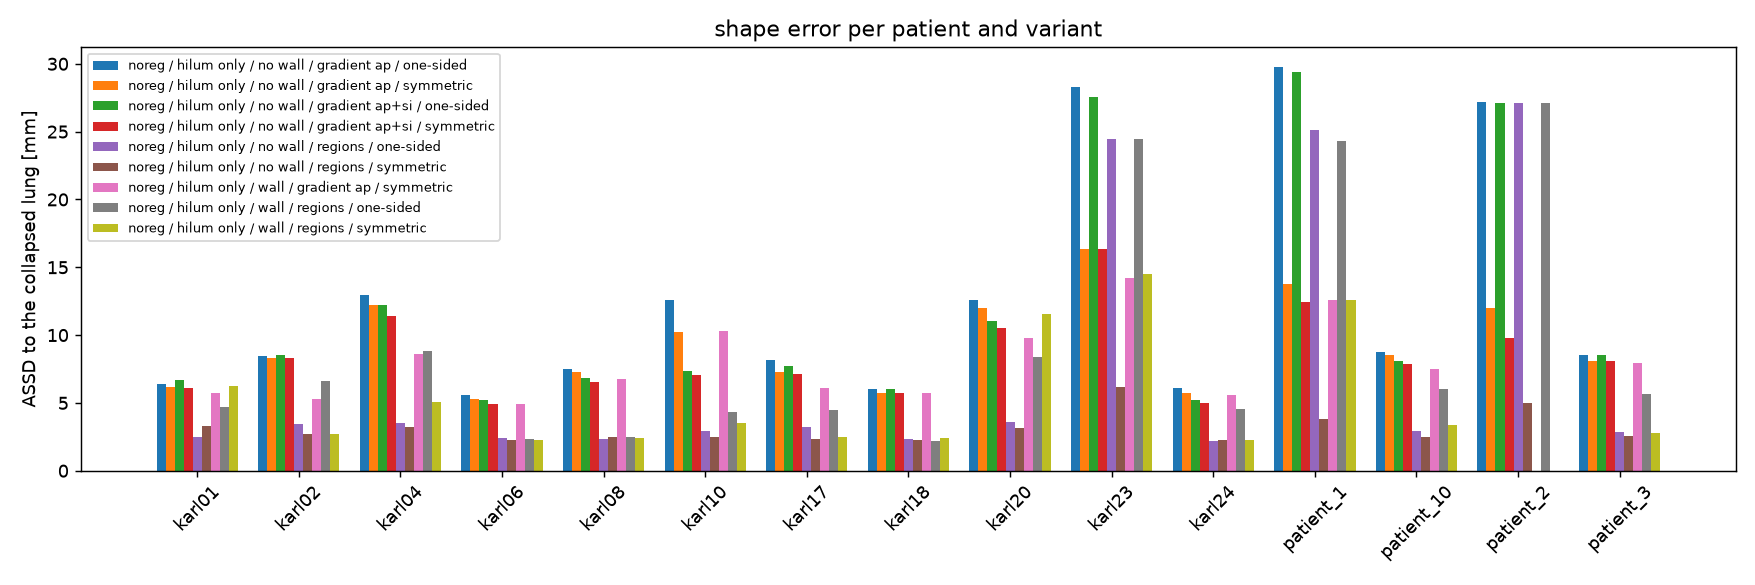
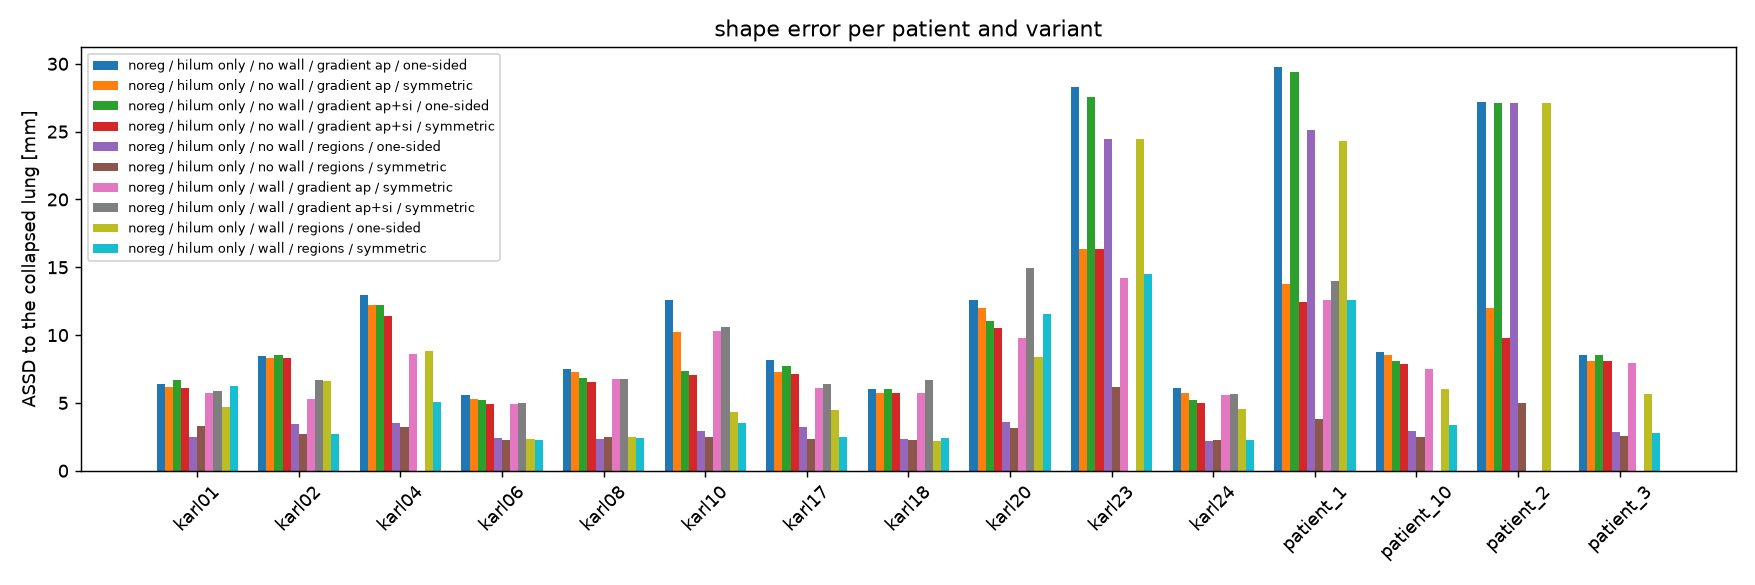
bug fixed on pressure fit

Changed region(s): [[0.0923, 0.1846, 0.9538, 0.8308], [0.0308, 0.3385, 0.2769, 0.4615]]

diff --git a/pipeline/collapse/fit.py b/pipeline/collapse/fit.py
@@ -321,7 +321,7 @@ def run_level(L, model, x0, lb, ub, ctx):
                           q=np.array(qs, float))
         else:
             anchor["current"] = anchor["state"] is None         # the solver now holds this trial
-        trk.improve(err, r, state)
+        trk.improve(rms if cfg.best_by == "rms" else err, r, state)
         return last["r"], err + np.dot(rreg, rreg) / max(1, len(rreg))
 
     # regularisation rows of the Jacobian: d(reg (q_a - q_b))/dx, constant
@@ -400,7 +400,7 @@ def run(cfg):
         log.warning("loss_symmetric_weight %g ignored: the reference is registered (node-to-node "
                     "correspondence, already symmetric)", cfg.loss_symmetric_weight)
     r_zero = loss.residual(X_ref)
-    e0, _ = loss.error(r_zero)
+    e0, rms0 = loss.error(r_zero)
     mism = np.linalg.norm(X_ref - X_tgt, axis=1)[~free]
     log.info("problem: %d surface points (%d clamped, left out of the error: %.2f mm mean / %.2f max from "
              "their target), %d volume nodes, %d tets, levels K = %s; loss %s%s%s%s, no-deformation error "
@@ -446,20 +446,32 @@ def run(cfg):
         models = [PressureModel.gradient(coords, [], clamped, offset)]
         if axes:
             models.append(PressureModel.gradient(coords, axes, clamped, offset))
+        if offset is not None:
+            # continuation: a solve from rest with the whole gravity term pushes the lung onto the wall
+            # from the first increment and often fails (2026-11-16 scan: 27 / 42 first solves). Fit the
+            # uniform level without, then with half the gravity term first; these levels only provide
+            # the warm start and their states are not candidates for the result
+            pre = [PressureModel.gradient(coords, [], clamped, f * offset) for f in cfg.gravity_prefit]
+            for m in pre:
+                m.prefit = True
+            models = pre + models
     slope_max = cfg.q_bounds[1] - cfg.q_bounds[0]
 
     trk = Tracker(cfg, out)
     ctx = dict(solver=solver, trk=trk, cfg=cfg, sign=sign, X_ref=X_ref, loss=loss, clamped=clamped,
                r_zero=r_zero.ravel())
     q_tri, nu_best = np.where(clamped, np.nan, cfg.q0), cfg.nu
-    summary, stall, prev = [], 0, e0
+    base0 = rms0 if cfg.best_by == "rms" else e0          # in the measure that picks the best
+    summary, stall, prev = [], 0, base0
     stop_reason = "levels exhausted"
     with guarded(trk, int(60 * (cfg.time_budget_min + cfg.hard_grace_min))):
+        warm = None                                     # best of the last prefit level
         for L, model in enumerate(models, start=1):
             K = model.P
-            if trk.best is not None:                       # warm start from the best so far
-                q_tri, nu_best = trk.best["q_tri"], trk.best["nu"]
-                solver.set_state(trk.best["solver_state"], ctx["sign"] * trk.best["q_tri"])
+            src = trk.best if trk.best is not None else warm
+            if src is not None:                             # warm start from the best so far
+                q_tri, nu_best = src["q_tri"], src["nu"]
+                solver.set_state(src["solver_state"], ctx["sign"] * src["q_tri"])
             x0 = model.x0_from(q_tri, area, clamped)
             lb, ub = np.full(K, cfg.q_bounds[0]), np.full(K, cfg.q_bounds[1])
             if model.name == "gradient":                   # slopes: p/E difference across the lung
@@ -473,6 +485,15 @@ def run(cfg):
                                 evals=trk.level_evals, elapsed_min=trk.elapsed() / 60))
             log.info("level %d done (%s): level best %.3f mm, overall best %.3f mm, improvement %.1f%%",
                      L, reason, lvl_err, trk.best_err, 100 * imp)
+            if getattr(model, "prefit", False):
+                summary[-1]["prefit"] = True
+                if reason == "time budget" or reason.startswith("signal"):
+                    stop_reason = reason
+                    break
+                if trk.best is not None:                    # warm start only, not a result
+                    warm = trk.best
+                trk.best, trk.best_err, prev = None, np.inf, base0
+                continue
             trk.checkpoint()
             if reason in ("target error reached", "time budget") or reason.startswith("signal"):
                 stop_reason = reason

diff --git a/pipeline/config.py b/pipeline/config.py
@@ -172,6 +172,12 @@ class FemFitConfig:
     # E_Pa is set to gravity_E_Pa, so the reported pressures are in physical Pa. None = slope fitted
     gravity_E_Pa: float | None = None
     tissue_density: float = 250.0      # kg/m3, mean density of the inflated lung (assumed: no CT HU)
+    gravity_prefit: list = field(default_factory=lambda: [0.0, 0.5])  # continuation: fractions of the
+                                       # gravity term fitted first (uniform level), only as warm start
+    # which state is the result (and drives level plateau / target stop): "mean" = lowest mean distance;
+    # "rms" = lowest rms, i.e. the least-squares cost the optimiser minimises (without the reg term).
+    # With 1-2 parameters the two can disagree and "mean" may keep the starting point
+    best_by: str = "mean"
     optimizer: str = "lsq"            # lsq (bounded least squares, TRF) | nm (Nelder-Mead)
     jacobian: str = "analytic"         # lsq: analytic (from the core; finite differences if it has none) | 2-point
     lsq_diff_step: float = 5e-3        # lsq: relative finite-difference step for the Jacobian
@@ -224,6 +230,10 @@ class FemFitConfig:
         bad = [a for a in self.gradient_axes if a not in ("ap", "si", "ml")]
         if bad or len(set(self.gradient_axes)) != len(self.gradient_axes):
             raise ValueError("fem_fit.gradient_axes: distinct values among ap, si, ml (got %s)" % self.gradient_axes)
+        if self.best_by not in ("mean", "rms"):
+            raise ValueError("fem_fit.best_by must be mean or rms")
+        if any(not 0.0 <= f < 1.0 for f in self.gravity_prefit):
+            raise ValueError("fem_fit.gravity_prefit: fractions in [0, 1)")
         if self.gravity_E_Pa is not None:
             if self.pressure_model != "gradient":
                 raise ValueError("fem_fit.gravity_E_Pa needs pressure_model gradient")

diff --git a/analysis/report.md b/analysis/report.md
@@ -1,6 +1,6 @@
 # Fit analysis
 
-193 fits, 15 patients. Shape errors measured by this script against the collapsed lung surface, free points only (see the docstring).
+208 fits, 15 patients. Shape errors measured by this script against the collapsed lung surface, free points only (see the docstring).
 
 
 ## Per fit
@@ -16,6 +16,8 @@
 | karl01_noreg_hilum | fit_sym_k0.001 | left | 40 | 25% | 26% | 2.30 | 2.68 | 1.92 | 8.45 | 3.3 | 0.38 | 0.21 | -0.17 | -0.01 | 0.08 | 0 | 7.7 | target error reached |
 | karl01_noreg_hilum | fit_sym_k0.003 | left | 25 | 25% | 27% | 3.30 | 4.07 | 2.54 | 13.17 | 2.8 | 0.44 | 0.31 | -0.18 | -0.14 | 0.23 | 16 | 32.7 | fit plateau (2 levels < 2% gain) |
 | karl01_noreg_hilum_wall | fit_grad_ap_sym | left | 2 | 25% | 28% | 5.76 | 6.96 | 4.56 | 18.88 | 13.3 | 0.48 | 0.26 | -0.00 | -0.00 | 1.00 | 0 | 0.5 | levels exhausted |
+| karl01_noreg_hilum_wall | fit_gE1700 | left | 1 | 25% | 28% | 5.76 | 6.98 | 4.55 | 19.40 | 13.0 | 0.48 | 0.25 | 0.00 | -0.00 | 1.00 | 0 | 0.4 | levels exhausted |
+| karl01_noreg_hilum_wall | fit_gE3000 | left | 1 | 25% | 28% | 5.85 | 7.19 | 4.51 | 23.52 | 9.6 | 0.49 | 0.14 | 0.00 | -0.00 | 1.00 | 0 | 0.2 | levels exhausted |
 | karl01_noreg_hilum_wall | fit_torch | left | 8 | 25% | 32% | 4.72 | 5.50 | 3.94 | 14.21 | 10.5 | 0.54 | 0.13 | -0.14 | -0.05 | 0.39 | 15 | 30.8 | fit plateau (2 levels < 2% gain) |
 | karl01_noreg_hilum_wall | fit_sym | left | 8 | 25% | 24% | 3.55 | 4.37 | 2.73 | 12.81 | 6.9 | 0.40 | 0.18 | -0.20 | -0.16 | 0.23 | 14 | 41.1 | fit plateau (2 levels < 2% gain) |
 | karl01_noreg_hilum_wall | fit_sym_k0.001 | left | 8 | 25% | 27% | 3.70 | 4.58 | 2.82 | 13.72 | 5.0 | 0.45 | 0.34 | -0.22 | -0.16 | 0.29 | 12 | 27.8 | fit plateau (2 levels < 2% gain) |
@@ -29,6 +31,7 @@
 | karl02_noreg_hilum | fit_sym_k0.001 | right | 40 | 53% | 52% | 2.90 | 2.59 | 3.21 | 7.85 | 8.2 | 0.95 | 0.49 | -0.13 | -0.23 | 0.24 | 0 | 9.9 | levels exhausted |
 | karl02_noreg_hilum | fit_sym_k0.003 | right | 40 | 53% | 52% | 2.72 | 2.48 | 2.96 | 6.93 | 5.7 | 1.01 | 0.75 | -0.21 | -0.34 | 0.22 | 0 | 7.9 | levels exhausted |
 | karl02_noreg_hilum_wall | fit_grad_ap_sym | right | 2 | 53% | 49% | 5.30 | 5.15 | 5.45 | 13.92 | 15.0 | 0.83 | 0.32 | -0.00 | -0.00 | 1.00 | 4 | 8.4 | levels exhausted |
+| karl02_noreg_hilum_wall | fit_gE3000 | right | 1 | 53% | 46% | 6.66 | 6.90 | 6.41 | 19.53 | 12.8 | 0.78 | 0.18 | -0.00 | -0.00 | 1.00 | 0 | 0.6 | levels exhausted |
 | karl02_noreg_hilum_wall | fit_torch | right | 4 | 53% | 51% | 6.65 | 6.42 | 6.88 | 15.79 | 12.8 | 0.84 | 0.35 | 0.02 | 0.14 | 0.70 | 12 | 24.0 | fit plateau (2 levels < 2% gain) |
 | karl02_noreg_hilum_wall | fit_sym | right | 4 | 53% | 49% | 6.57 | 6.55 | 6.59 | 15.98 | 11.7 | 0.79 | 0.31 | 0.02 | 0.12 | 0.75 | 12 | 26.1 | fit plateau (2 levels < 2% gain) |
 | karl02_noreg_hilum_wall | fit_sym_k0.001 | right | 4 | 53% | 49% | 6.49 | 6.70 | 6.28 | 17.70 | 5.6 | 0.81 | 0.54 | -0.11 | 0.22 | 0.73 | 11 | 22.2 | fit plateau (2 levels < 2% gain) |
@@ -59,6 +62,7 @@
 | karl06_noreg_hilum | fit_sym_k0.001 | right | 14 | 23% | 24% | 2.37 | 2.58 | 2.16 | 8.62 | 6.8 | 0.40 | 0.29 | -0.07 | -0.15 | 0.40 | 0 | 4.2 | target error reached |
 | karl06_noreg_hilum | fit_sym_k0.003 | right | 14 | 23% | 24% | 2.30 | 2.52 | 2.08 | 8.90 | 4.3 | 0.43 | 0.47 | -0.14 | -0.23 | 0.45 | 0 | 3.5 | target error reached |
 | karl06_noreg_hilum_wall | fit_grad_ap_sym | right | 2 | 23% | 21% | 4.95 | 5.61 | 4.28 | 16.28 | 10.1 | 0.35 | 0.21 | -0.00 | -0.00 | 1.00 | 0 | 0.5 | levels exhausted |
+| karl06_noreg_hilum_wall | fit_gE3000 | right | 1 | 23% | 22% | 4.96 | 5.62 | 4.30 | 16.33 | 9.8 | 0.36 | 0.19 | 0.00 | -0.00 | 1.00 | 0 | 0.4 | levels exhausted |
 | karl06_noreg_hilum_wall | fit_torch | right | 25 | 23% | 26% | 2.34 | 2.34 | 2.33 | 6.88 | 11.0 | 0.42 | 0.16 | -0.10 | -0.14 | 0.13 | 0 | 0.5 | target error reached |
 | karl06_noreg_hilum_wall | fit_sym | right | 25 | 23% | 23% | 2.33 | 2.51 | 2.15 | 6.85 | 10.9 | 0.38 | 0.16 | -0.10 | -0.14 | 0.16 | 0 | 3.5 | target error reached |
 | karl06_noreg_hilum_wall | fit_sym_k0.001 | right | 14 | 23% | 23% | 2.36 | 2.57 | 2.15 | 8.04 | 6.9 | 0.40 | 0.29 | -0.07 | -0.15 | 0.37 | 0 | 0.4 | target error reached |
@@ -72,6 +76,8 @@
 | karl08_noreg_hilum | fit_sym_k0.001 | right | 40 | 28% | 28% | 2.17 | 2.25 | 2.09 | 6.88 | 5.2 | 0.52 | 0.37 | -0.23 | -0.07 | 0.18 | 0 | 6.4 | target error reached |
 | karl08_noreg_hilum | fit_sym_k0.003 | right | 25 | 28% | 28% | 2.45 | 2.58 | 2.33 | 7.93 | 3.3 | 0.55 | 0.55 | -0.37 | -0.03 | 0.28 | 0 | 5.3 | target error reached |
 | karl08_noreg_hilum_wall | fit_grad_ap_sym | right | 2 | 28% | 25% | 6.76 | 7.54 | 5.98 | 20.02 | 10.6 | 0.44 | 0.18 | 0.00 | -0.00 | 1.00 | 0 | 0.4 | levels exhausted |
+| karl08_noreg_hilum_wall | fit_gE1700 | right | 1 | 28% | 26% | 6.79 | 7.38 | 6.19 | 19.06 | 13.3 | 0.44 | 0.32 | 0.00 | -0.00 | 1.00 | 0 | 0.7 | levels exhausted |
+| karl08_noreg_hilum_wall | fit_gE3000 | right | 1 | 28% | 26% | 6.79 | 7.56 | 6.03 | 20.00 | 10.6 | 0.44 | 0.18 | 0.00 | 0.00 | 1.00 | 0 | 0.2 | levels exhausted |
 | karl08_noreg_hilum_wall | fit_torch | right | 40 | 28% | 29% | 2.47 | 2.38 | 2.57 | 6.31 | 8.3 | 0.52 | 0.21 | -0.13 | -0.12 | 0.07 | 0 | 0.6 | target error reached |
 | karl08_noreg_hilum_wall | fit_sym | right | 40 | 28% | 27% | 2.23 | 2.32 | 2.13 | 6.94 | 7.6 | 0.48 | 0.20 | -0.15 | -0.07 | 0.06 | 0 | 4.8 | target error reached |
 | karl08_noreg_hilum_wall | fit_sym_k0.001 | right | 25 | 28% | 27% | 2.46 | 2.56 | 2.35 | 7.71 | 5.0 | 0.50 | 0.35 | -0.22 | -0.04 | 0.17 | 0 | 0.5 | target error reached |
@@ -85,6 +91,7 @@
 | karl10_noreg_hilum | fit_sym_k0.001 | left | 40 | 56% | 56% | 2.55 | 2.44 | 2.65 | 6.74 | 5.1 | 1.06 | 0.54 | 0.27 | 0.23 | 0.09 | 0 | 9.2 | levels exhausted |
 | karl10_noreg_hilum | fit_sym_k0.003 | left | 40 | 56% | 56% | 2.49 | 2.39 | 2.59 | 6.67 | 4.7 | 1.07 | 0.72 | 0.41 | 0.22 | 0.14 | 0 | 7.0 | target error reached |
 | karl10_noreg_hilum_wall | fit_grad_ap_sym | left | 2 | 56% | 54% | 10.31 | 10.59 | 10.03 | 22.29 | 4.9 | 0.93 | 0.02 | -0.00 | 0.00 | 1.00 | 0 | 0.2 | levels exhausted |
+| karl10_noreg_hilum_wall | fit_gE3000 | left | 1 | 56% | 54% | 10.59 | 10.44 | 10.74 | 24.76 | 13.2 | 0.92 | 0.16 | -0.00 | -0.00 | 1.00 | 0 | 0.6 | levels exhausted |
 | karl10_noreg_hilum_wall | fit_torch | left | 14 | 56% | 58% | 4.31 | 3.80 | 4.81 | 9.24 | 9.4 | 0.98 | 0.53 | 0.48 | 0.24 | 0.41 | 12 | 25.0 | fit plateau (2 levels < 2% gain) |
 | karl10_noreg_hilum_wall | fit_sym | left | 8 | 56% | 52% | 4.54 | 4.65 | 4.42 | 13.44 | 7.9 | 0.86 | 0.41 | 0.40 | 0.32 | 0.59 | 11 | 29.2 | fit plateau (2 levels < 2% gain) |
 | karl10_noreg_hilum_wall | fit_sym_k0.001 | left | 14 | 56% | 54% | 3.75 | 3.80 | 3.70 | 10.16 | 6.5 | 0.93 | 0.61 | 0.54 | 0.27 | 0.43 | 12 | 24.9 | fit plateau (2 levels < 2% gain) |
@@ -98,6 +105,7 @@
 | karl17_noreg_hilum | fit_sym_k0.001 | left | 40 | 24% | 24% | 2.52 | 2.80 | 2.24 | 8.46 | 9.0 | 0.40 | 0.39 | -0.29 | 0.07 | 0.10 | 0 | 8.9 | target error reached |
 | karl17_noreg_hilum | fit_sym_k0.003 | left | 40 | 24% | 23% | 2.35 | 2.77 | 1.94 | 8.16 | 6.4 | 0.44 | 0.72 | -0.44 | 0.17 | 0.21 | 0 | 6.1 | target error reached |
 | karl17_noreg_hilum_wall | fit_grad_ap_sym | left | 2 | 24% | 24% | 6.10 | 7.20 | 4.99 | 23.97 | 14.0 | 0.40 | 0.27 | -0.00 | 0.00 | 1.00 | 3 | 7.0 | levels exhausted |
+| karl17_noreg_hilum_wall | fit_gE3000 | left | 1 | 24% | 27% | 6.43 | 7.54 | 5.31 | 25.89 | 12.8 | 0.44 | 0.19 | -0.00 | 0.00 | 1.00 | 0 | 0.5 | levels exhausted |
 | karl17_noreg_hilum_wall | fit_torch | left | 8 | 24% | 23% | 4.45 | 5.03 | 3.88 | 12.91 | 15.4 | 0.33 | 0.17 | 0.00 | 0.08 | 0.11 | 14 | 29.3 | fit plateau (2 levels < 2% gain) |
 | karl17_noreg_hilum_wall | fit_sym | left | 4 | 24% | 21% | 4.81 | 5.57 | 4.05 | 15.63 | 14.5 | 0.31 | 0.12 | -0.03 | 0.05 | 0.09 | 15 | 39.3 | fit plateau (2 levels < 2% gain) |
 | karl17_noreg_hilum_wall | fit_sym_k0.001 | left | 14 | 24% | 23% | 3.52 | 4.02 | 3.01 | 10.89 | 10.5 | 0.37 | 0.51 | 0.01 | 0.20 | 0.30 | 12 | 25.4 | fit plateau (2 levels < 2% gain) |
@@ -111,6 +119,9 @@
 | karl18_noreg_hilum | fit_sym_k0.001 | left | 14 | 31% | 29% | 2.35 | 2.44 | 2.26 | 5.78 | 0.6 | 0.49 | 0.23 | 0.10 | 0.28 | 0.25 | 0 | 2.9 | target error reached |
 | karl18_noreg_hilum | fit_sym_k0.003 | left | 14 | 31% | 29% | 2.30 | 2.38 | 2.22 | 5.87 | 0.6 | 0.50 | 0.29 | 0.08 | 0.31 | 0.31 | 0 | 2.5 | target error reached |
 | karl18_noreg_hilum_wall | fit_grad_ap_sym | left | 1 | 31% | 29% | 5.75 | 6.10 | 5.40 | 15.29 | 1.1 | 0.50 | -0.00 | -0.00 | -0.00 | – | 0 | 0.1 | levels exhausted |
+| karl18_noreg_hilum_wall | fit_gE1000 | left | 1 | 31% | 31% | 9.22 | 8.81 | 9.62 | 17.48 | 13.6 | 0.50 | 0.44 | -0.00 | -0.00 | 1.00 | 0 | 0.4 | levels exhausted |
+| karl18_noreg_hilum_wall | fit_gE1700 | left | 1 | 31% | 33% | 8.34 | 8.01 | 8.68 | 15.74 | 11.3 | 0.56 | 0.26 | 0.00 | -0.00 | 1.00 | 0 | 0.2 | levels exhausted |
+| karl18_noreg_hilum_wall | fit_gE3000 | left | 1 | 31% | 39% | 6.72 | 6.26 | 7.18 | 13.65 | 7.3 | 0.66 | 0.15 | -0.00 | 0.00 | 1.00 | 0 | 0.2 | levels exhausted |
 | karl18_noreg_hilum_wall | fit_torch | left | 14 | 31% | 30% | 2.16 | 2.22 | 2.10 | 5.32 | 1.4 | 0.50 | 0.17 | 0.16 | 0.30 | 0.22 | 0 | 0.3 | target error reached |
 | karl18_noreg_hilum_wall | fit_sym | left | 14 | 31% | 28% | 2.25 | 2.41 | 2.09 | 5.41 | 1.9 | 0.47 | 0.17 | 0.15 | 0.30 | 0.23 | 0 | 1.9 | target error reached |
 | karl18_noreg_hilum_wall | fit_sym_k0.001 | left | 8 | 31% | 28% | 2.42 | 2.61 | 2.24 | 5.57 | 2.0 | 0.46 | 0.20 | 0.14 | 0.34 | 0.33 | 0 | 0.2 | target error reached |
@@ -124,6 +135,8 @@
 | karl20_noreg_hilum | fit_sym_k0.001 | left | 40 | 58% | 55% | 3.64 | 4.25 | 3.04 | 11.54 | 19.6 | 0.97 | 1.41 | -0.30 | 0.35 | 0.16 | 0 | 9.3 | levels exhausted |
 | karl20_noreg_hilum | fit_sym_k0.003 | left | 40 | 58% | 56% | 3.18 | 3.83 | 2.53 | 10.91 | 13.1 | 1.11 | 1.99 | -0.28 | 0.47 | 0.27 | 3 | 16.7 | levels exhausted |
 | karl20_noreg_hilum_wall | fit_grad_ap_sym | left | 2 | 58% | 64% | 9.80 | 10.78 | 8.83 | 29.43 | 20.7 | 1.10 | 0.79 | -0.00 | -0.00 | 1.00 | 8 | 16.6 | levels exhausted |
+| karl20_noreg_hilum_wall | fit_gE1700 | left | 1 | 58% | 54% | 12.92 | 17.14 | 8.70 | 51.97 | 13.6 | 0.93 | 0.30 | -0.00 | -0.00 | 1.00 | 0 | 0.5 | levels exhausted |
+| karl20_noreg_hilum_wall | fit_gE3000 | left | 1 | 58% | 30% | 14.97 | 23.38 | 6.57 | 73.73 | 10.0 | 0.50 | 0.17 | -0.00 | -0.00 | 1.00 | 0 | 0.4 | levels exhausted |
 | karl20_noreg_hilum_wall | fit_torch | left | 4 | 58% | 68% | 8.37 | 7.84 | 8.89 | 17.74 | 19.5 | 1.14 | 0.79 | -0.47 | 0.01 | 0.42 | 11 | 21.3 | fit plateau (2 levels < 2% gain) |
 | karl20_noreg_hilum_wall | fit_sym | left | 4 | 58% | 58% | 7.35 | 7.91 | 6.79 | 20.90 | 21.4 | 0.91 | 0.57 | -0.16 | 0.08 | 0.54 | 11 | 24.8 | fit plateau (2 levels < 2% gain) |
 | karl20_noreg_hilum_wall | fit_sym_k0.001 | left | 8 | 58% | 57% | 6.02 | 6.55 | 5.49 | 15.94 | 14.6 | 1.03 | 1.26 | -0.82 | 0.15 | 0.49 | 13 | 26.6 | fit plateau (2 levels < 2% gain) |
@@ -150,6 +163,7 @@
 | karl24_noreg_hilum | fit_sym_k0.001 | left | 25 | 24% | 25% | 2.33 | 2.79 | 1.87 | 9.56 | 7.1 | 0.42 | 0.12 | -0.28 | 0.05 | 0.15 | 0 | 4.6 | target error reached |
 | karl24_noreg_hilum | fit_sym_k0.003 | left | 25 | 24% | 26% | 2.24 | 2.62 | 1.86 | 8.98 | 5.8 | 0.47 | 0.31 | -0.47 | 0.09 | 0.32 | 0 | 4.5 | target error reached |
 | karl24_noreg_hilum_wall | fit_grad_ap_sym | left | 2 | 24% | 26% | 5.60 | 6.68 | 4.53 | 22.15 | 7.9 | 0.44 | 0.03 | -0.00 | 0.00 | 1.00 | 0 | 0.2 | levels exhausted |
+| karl24_noreg_hilum_wall | fit_gE3000 | left | 1 | 24% | 25% | 5.65 | 6.45 | 4.86 | 16.68 | 13.0 | 0.42 | 0.14 | -0.00 | 0.00 | 1.00 | 0 | 0.4 | levels exhausted |
 | karl24_noreg_hilum_wall | fit_torch | left | 4 | 24% | 25% | 4.52 | 5.01 | 4.02 | 13.09 | 14.3 | 0.39 | 0.12 | -0.17 | 0.02 | 0.60 | 2 | 2.6 | fit plateau (2 levels < 2% gain) |
 | karl24_noreg_hilum_wall | fit_sym | left | 4 | 24% | 20% | 4.24 | 5.01 | 3.47 | 14.34 | 13.4 | 0.31 | 0.12 | -0.14 | 0.02 | 0.64 | 10 | 23.1 | fit plateau (2 levels < 2% gain) |
 | karl24_noreg_hilum_wall | fit_sym_k0.001 | left | 25 | 24% | 25% | 2.43 | 2.83 | 2.03 | 9.85 | 5.8 | 0.41 | 0.10 | -0.27 | 0.05 | 0.14 | 0 | 0.8 | target error reached |
@@ -163,6 +177,7 @@
 | patient_1_noreg_hilum | fit_sym_k0.001 | left | 40 | 59% | 56% | 4.57 | 4.94 | 4.21 | 13.30 | 20.4 | 0.87 | 0.07 | -0.19 | 0.09 | 0.01 | 20 | 25.8 | fit plateau (2 levels < 2% gain) |
 | patient_1_noreg_hilum | fit_sym_k0.003 | left | 40 | 59% | 56% | 3.78 | 4.27 | 3.29 | 12.58 | 18.5 | 1.08 | 0.43 | -0.77 | -0.02 | 0.06 | 10 | 26.9 | levels exhausted |
 | patient_1_noreg_hilum_wall | fit_grad_ap_sym | left | 2 | 59% | 63% | 12.58 | 13.54 | 11.62 | 33.78 | 23.9 | 1.08 | 0.41 | 0.00 | -0.00 | 1.00 | 5 | 11.3 | levels exhausted |
+| patient_1_noreg_hilum_wall | fit_gE3000 | left | 1 | 59% | 48% | 14.00 | 18.49 | 9.52 | 52.49 | 15.7 | 0.82 | 0.15 | 0.00 | -0.00 | 1.00 | 0 | 1.1 | levels exhausted |
 | patient_1_noreg_hilum_wall | fit_torch | left | 40 | 59% | 95% | 24.32 | 8.34 | 40.29 | 20.91 | 17.5 | 2.27 | -0.39 | 2.06 | 2.28 | 0.27 | 0 | 0.8 | levels exhausted |
 | patient_1_noreg_hilum_wall | fit_sym | left | 4 | 59% | 56% | 11.37 | 13.84 | 8.91 | 41.79 | 18.7 | 0.92 | 0.10 | 0.06 | -0.05 | 0.21 | 11 | 24.3 | fit plateau (2 levels < 2% gain) |
 | patient_1_noreg_hilum_wall | fit_sym_k0.001 | left | 4 | 59% | 49% | 7.52 | 8.95 | 6.09 | 24.62 | 19.4 | 0.77 | 0.50 | -0.12 | -0.23 | 0.18 | 13 | 26.6 | fit plateau (2 levels < 2% gain) |
@@ -213,6 +228,7 @@
 | noreg / hilum only / no wall / regions / one-sided | 15 | 2.95 | 3.03 | 3.08 | -3.4 | 10.7 | 14/15 | 10/15 | 0.23 | -0.28 | -0.62 + 3.86·c (max res 0.97) | 0.4 |
 | noreg / hilum only / no wall / regions / symmetric | 43 | 2.59 | 2.85 | 2.53 | 0.9 | 8.6 | 42/43 | 36/43 | 0.56 | -0.36 | -0.09 + 2.02·c (max res 0.23) | 5.3 |
 | noreg / hilum only / wall / gradient ap / symmetric | 14 | 7.14 | 7.94 | 6.33 | 0.4 | 13.7 | 13/14 | 10/14 | 0.41 | -0.00 | -0.03 + 1.83·c (max res 0.20) | 5.8 |
+| noreg / hilum only / wall / gradient ap+si / symmetric | 15 | 6.79 | 7.54 | 6.41 | 2.1 | 12.8 | 15/15 | 8/15 | 0.34 | -0.00 | 0.19 + 1.05·c (max res 0.31) | 0.4 |
 | noreg / hilum only / wall / regions / one-sided | 15 | 5.67 | 6.02 | 5.32 | -3.2 | 14.3 | 13/15 | 7/15 | 0.38 | 0.00 | -0.63 + 3.80·c (max res 0.99) | 21.3 |
 | noreg / hilum only / wall / regions / symmetric | 46 | 4.39 | 4.83 | 3.87 | 4.1 | 8.5 | 46/46 | 36/46 | 0.68 | -0.28 | 0.10 + 1.31·c (max res 0.35) | 26.3 |
 
@@ -222,17 +238,18 @@
 | comparison | fixed | n | B better (ASSD) | Δ ASSD | Δ fit→tgt | Δ tgt→fit | Δ rot ° | Δ mean p/E | Δ ap | Δ failed | Δ min |
 |---|---|---|---|---|---|---|---|---|---|---|---|
 | wall: False → True | noreg, hilum only, gradient ap, symmetric | 14 | 13/14 | -0.78 | -0.67 | -0.75 | 0.5 | -0.03 | 0.11 | 2 | 5.6 |
+| wall: False → True | noreg, hilum only, gradient ap+si, symmetric | 15 | 4/15 | 0.66 | 0.29 | 0.00 | 3.2 | -0.03 | 0.11 | 0 | 0.2 |
 | wall: False → True | noreg, hilum only, regions, one-sided | 15 | 4/15 | 1.41 | 1.70 | 1.52 | 0.6 | -0.02 | -0.01 | 11 | 20.6 |
 | wall: False → True | noreg, hilum only, regions, symmetric | 138 | 20/138 | 1.69 | 2.01 | 1.26 | -0.0 | -0.06 | 0.02 | 11 | 19.1 |
 | model: regions → gradient ap+si | noreg, hilum only, no wall, one-sided | 45 | 11/45 | 3.69 | 3.61 | 3.13 | 1.4 | 0.05 | -0.08 | 0 | -0.1 |
 | model: regions → gradient ap+si | noreg, hilum only, no wall, symmetric | 101 | 13/101 | 4.80 | 5.50 | 4.30 | 1.1 | 0.00 | -0.21 | 0 | -3.2 |
-| model: regions → gradient ap+si | noreg, hilum only, wall, symmetric | 46 | 5/46 | 2.71 | 3.34 | 2.56 | 3.2 | 0.02 | -0.17 | -8 | -19.0 |
+| model: regions → gradient ap+si | noreg, hilum only, wall, symmetric | 106 | 7/106 | 2.97 | 3.57 | 2.40 | 4.7 | 0.02 | -0.10 | -6 | -13.4 |
 | model: regions → gradient ap | noreg, hilum only, no wall, one-sided | 45 | 11/45 | 3.69 | 3.61 | 3.13 | 1.4 | 0.05 | -0.08 | 0 | -0.1 |
 | model: regions → gradient ap | noreg, hilum only, no wall, symmetric | 101 | 13/101 | 4.80 | 5.50 | 4.30 | 1.1 | 0.00 | -0.21 | 0 | -3.2 |
-| model: regions → gradient ap | noreg, hilum only, wall, symmetric | 46 | 5/46 | 2.71 | 3.34 | 2.56 | 3.2 | 0.02 | -0.17 | -8 | -19.0 |
+| model: regions → gradient ap | noreg, hilum only, wall, symmetric | 106 | 7/106 | 2.97 | 3.57 | 2.40 | 4.7 | 0.02 | -0.10 | -6 | -13.4 |
 | model: gradient ap → gradient ap+si | noreg, hilum only, no wall, one-sided | 45 | 11/45 | 3.69 | 3.61 | 3.13 | 1.4 | 0.05 | -0.08 | 0 | -0.1 |
 | model: gradient ap → gradient ap+si | noreg, hilum only, no wall, symmetric | 101 | 13/101 | 4.80 | 5.50 | 4.30 | 1.1 | 0.00 | -0.21 | 0 | -3.2 |
-| model: gradient ap → gradient ap+si | noreg, hilum only, wall, symmetric | 46 | 5/46 | 2.71 | 3.34 | 2.56 | 3.2 | 0.02 | -0.17 | -8 | -19.0 |
+| model: gradient ap → gradient ap+si | noreg, hilum only, wall, symmetric | 106 | 7/106 | 2.97 | 3.57 | 2.40 | 4.7 | 0.02 | -0.10 | -6 | -13.4 |
 | loss: one-sided → symmetric | noreg, hilum only, no wall, gradient ap | 15 | 15/15 | -0.45 | 0.19 | -1.32 | -1.4 | -0.15 | -0.02 | 0 | 0.0 |
 | loss: one-sided → symmetric | noreg, hilum only, no wall, gradient ap+si | 15 | 15/15 | -0.47 | 0.35 | -1.36 | -1.3 | -0.13 | -0.01 | 0 | -0.0 |
 | loss: one-sided → symmetric | noreg, hilum only, no wall, regions | 43 | 33/43 | -0.22 | 0.04 | -0.50 | -1.6 | -0.03 | 0.13 | 0 | 5.0 |
@@ -250,5 +267,6 @@
 | noreg / hilum only / no wall / regions / one-sided | 15 | -0.22 | 0.28 | 0.22 | -0.13 | -0.47 |
 | noreg / hilum only / no wall / regions / symmetric | 43 | 0.03 | 0.22 | 0.08 | 0.29 | -0.38 |
 | noreg / hilum only / wall / gradient ap / symmetric | 14 | 0.13 | 0.02 | -0.18 | 0.14 | -0.31 |
+| noreg / hilum only / wall / gradient ap+si / symmetric | 15 | -0.51 | -0.06 | 0.53 | 0.15 | -0.42 |
 | noreg / hilum only / wall / regions / one-sided | 15 | -0.27 | 0.37 | 0.18 | -0.13 | -0.47 |
 | noreg / hilum only / wall / regions / symmetric | 46 | 0.19 | 0.19 | -0.06 | 0.17 | -0.32 |

diff --git a/configs/README.md b/configs/README.md
@@ -146,6 +146,7 @@ Computed on masks with elastix, then applied to the nodes of the step-2 mesh. Ou
 | `gradient_axes` | `["ap", "si"]` | `gradient` only: axes of the slopes, on the reference (inflated) lung in LPS. `ap` + = anterior, `si` + = superior, `ml` + = lateral (away from the hilum; reads `fem/setup/setup_summary.json`). Each coordinate is centred (area-weighted mean 0 over the free triangles) and divided by the lung's extent along the axis. On the 8 regions fits (2026-10-14) anterior > posterior in all patients, apex < base in 7 of 8, medial / lateral inconsistent. | distinct values among `ap`, `si`, `ml` |
 | `gravity_E_Pa` | `null` | `gradient` only: fix the `ap` slope to the lung's weight instead of fitting it (METHODOLOGY.md section 8): p/E = mean + γ (h − h̄), h = anterior coordinate of the triangle centroid in mm (up in a supine scan), centred, γ = ρ̄ g / `gravity_E_Pa`. `ap` is then left out of the fitted axes (the others in `gradient_axes` are still fitted; with `["ap"]` only the mean is fitted). Also sets `E_Pa`, so the reported pressures are in physical Pa. Summary: `gradient.gravity` (E, density, γ, AP extent, fixed slope) and `p0_Pa`. For a scan over a common E. | `null` or > 0 Pa (fits with the wall: 0.5–2.9 kPa) |
 | `tissue_density` | 250 | `gravity_E_Pa` only: mean density ρ̄ of the inflated lung in kg/m³ (assumed: no CT HU). The fixed slope scales with ρ̄ / E. | > 0 |
+| `gravity_prefit` | `[0, 0.5]` | `gravity_E_Pa` only: continuation. Before the real fit, the uniform level is fitted with these fractions of the gravity term; their states only warm-start the next level and are never the result (`prefit: true` in the summary's `levels`). A solve from rest with the whole gravity term pushes the lung onto the wall from the first increment: in the first scan (2026-11-16, no prefit) 27 of 42 first solves failed. `[]` = no continuation. | fractions in [0, 1) |
 | `levels` | `null` | `regions` only: subset of the `fem_setup` levels to fit (e.g. `[1, 4, 8, 14]` for a quick run). `null` = all. | values of `fem_setup.levels` |
 
 ### Optimiser
@@ -178,6 +179,7 @@ A **level** ends on the first of: lsq convergence (`lsq_*`) or level plateau. Th
 | `level_min_improve` | 0.005 | Level plateau: move to the next K when the level's best error improved by less than this fraction over the last `level_patience` iterations. With the analytic Jacobian iterations are cheap: a lower value (0.001–0.002) gains accuracy for a few minutes. | 0.001–0.02 |
 | `fit_patience` | 2 | Fit plateau: number of consecutive levels looked at. | 1–3 |
 | `fit_min_improve` | 0.02 | Fit plateau: stop when `fit_patience` levels in a row improve the best error by less than this fraction. | 0.01–0.05 |
+| `best_by` | `mean` | Which state is the result, and what the level plateau and the `target_error_mm` stop look at: `mean` = lowest mean distance (`mean_err_mm` in the history), `rms` = lowest rms (`rms_mm`), i.e. the least-squares cost the optimiser minimises (without the `reg` term). The two can disagree: with 1–2 parameters `mean` may keep the starting point (karl18 gradient fits, karl20 `gravity_E_Pa` 3000). Use `rms` for the gradient / gravity fits. | `mean`, `rms` |
 | `target_error_mm` | 2.5 | Stop when the mean error reaches this. | 1–5 mm (registration and discretisation alone give ~2–3 mm) |
 | `time_budget_min` | 240 | Stop after this many minutes. The best result so far is kept. | any |
 | `hard_grace_min` | 10 | A watchdog kills the process at budget + grace (if a solve hangs). | 5–30 min |

diff --git a/CLAUDE.md b/CLAUDE.md
@@ -101,7 +101,7 @@ Not obvious from the code; the reasons and numbers are in analysis/results.md.
 - `fit.run_level` re-anchors the solver to the lowest-cost state of the level before each solve (`set_state(state, load)` with the p/E per triangle; GetFEM ignores the load), and stops the level if its first solve fails.
 - 2-point Jacobian step = `lsq_diff_step` × max(|x|, 0.1) (relative to |x| it was ~1e-19 for slopes starting at 0).
 - `PressureModel`: regions = indicator Φ; gradient = one core region per free triangle and Jacobian J_tri · Φ, so no core changed. Tested with a fake linear core (synthetic gradient recovered to 1e-15).
-- `gravity_E_Pa`: `PressureModel.offset` = fixed p/E γ (h − h̄) added to q_tri and to the core pressures (`fit.gravity_offset`), not a parameter, so Jacobians are unchanged; `ap` is dropped from the fitted axes and `E_Pa` is overwritten. Checked on karl01 (Mac, stubbed imports): q_solver = q_tri, x0_from recovers x, regression slope = γ L.
+- `gravity_E_Pa`: `PressureModel.offset` = fixed p/E γ (h − h̄) added to q_tri and to the core pressures (`fit.gravity_offset`), not a parameter, so Jacobians are unchanged; `ap` is dropped from the fitted axes and `E_Pa` is overwritten. Checked on karl01 (Mac, stubbed imports): q_solver = q_tri, x0_from recovers x, regression slope = γ L. Prefit levels (`gravity_prefit`, attribute `prefit` on the model) warm-start the gravity level and are then dropped from the tracker (`trk.best` reset, `warm` kept). `best_by` picks the result by mean or rms. The whole loop was tested with a fake linear core that fails cold starts with a non-uniform load (`fit.run` with fakes for WallDistance / closest_on_surface / assd / polydata).
 - Outer wall rounds: unsettled after `wall_max_updates` = failure (`fail_unsettled`); the settle measure is `common.wall_gap_change` (previous linearised gap vs true gap, points with gap > −1 mm). A settled state keeps the linearisation it was solved with (Jacobian too); states loaded from a file (`best_state.npz`, `wall_diagnose --fit-state`) have none and re-linearise.
 - `support_k`: constant block k a (I − n nᵀ) per surface node (reference area / normal), added to R and the free-dof tangent, so Newton, load path and Jacobian see it; `support_share` in the summary = Σ|support force| / Σ|pressure force|.
 - Summary keys added over time: `mean_normal_err_mm`, `best_loss_err_mm`, `assd_mm`, `target_to_fitted_mm`, `rigid_rotation_deg` / `rigid_shift_mm` (target, fitted), `baseline_loss_mm`, `pressure_model`, `gradient`, `support_k`, `support_share`, `wall_max_penetration_mm`, `wall_points_beyond`; the fitted surface has `NormalError_mm`.

diff --git a/NEXT.md b/NEXT.md
@@ -90,7 +90,7 @@ Uniform pleural pressure + loss of the pleural gradient that carried the lung's 
 
 - [x] Gradient fits `ap` and `ap + si` with the symmetric loss, no wall (`fit_grad_ap_sym`, `fit_grad_apsi_sym`, 2026-11-16; analysis/results.md sections 4–5): broken cases repaired, collapse matched, ap > 0 in 13 / 15, si < 0 in 12 / 15 (not gravity), E not consistent across patients (lowest where the collapse is largest: the slope probably replaces the missing wall).
 - [x] Gradient `ap` with the wall (k = 0) (2026-11-16, analysis/results.md 4b): shape 8.2 → 7.1 mm, failures halved (14 %) but not gone (karl20 / karl23 ~1/3), slope ×2–3 larger than without wall, E 0.5–2.9 kPa (×6 instead of ×17).
-- [ ] Next: common E across patients with the wall (slope fixed = ρ̄ g L / E, fit q0 per patient): scan E 1, 1.7, 3 kPa with `fem_fit.gravity_E_Pa` (implemented 2026-11-16, not yet run on the server). How much shape is lost vs the free slope? Which E fits best overall?
+- [ ] Next: common E across patients with the wall (slope fixed = ρ̄ g L / E, fit q0 per patient): scan E 1, 1.7, 3 kPa with `fem_fit.gravity_E_Pa`. First attempt failed at the cold start (analysis/results.md section 5); rerun with the continuation and `best_by: "rms"`. How much shape is lost vs the free slope? Which E fits best overall?
 - [ ] If the wall corners still fail the solves: wall as a smooth potential (METHODOLOGY.md section 8 (a)): smoothed signed-distance grid, C² cubic B-spline interpolation, contact energy inside Newton with the exact Hessian (torch autodiff), no outer rounds. Choose the smoothing radius (a few mm) and check that the allowance still contains the target.
 - [ ] Later: deformable wall (section 8 (b)): stiffness per part of the cavity (ribs high, diaphragm / mediastinum low, from position and normal on the inflated surface).
 - [ ] With gravity, check whether `support_k` is still needed (probably not).

diff --git a/analysis/results.md b/analysis/results.md
@@ -111,6 +111,7 @@ Symmetric loss (`fit_grad_ap_sym`, `fit_grad_apsi_sym`, 2026-11-16) next to the 
 - Low E (0.7–1.3 kPa) in the 4 largest-rotation / largest-collapse cases (karl20, karl23, patient_2, patient_1), where the slope is 0.3–0.7.
 - **With the wall** (section 4b, 12 patients with θ_ap > 0.03): **median 1.7 kPa, range 0.46 (karl23) – 2.9 (karl08), ×6**, plus karl24 at 12.7 (slope 0.03, i.e. no gradient needed). Much tighter than without wall (×17): 8 of 12 between 1.1 and 2.9 kPa. Lowest still in karl23 (0.46), karl20 (0.64), patient_1 (1.07), karl04 (1.13). p0 = (mean p/E) E: 0.5–1.6 kPa (karl24 5.6). Order of magnitude plausible for lung tissue and for the transpulmonary pressure of an inflated lung; not proven.
 - **E from no-wall fits is not reliable; the wall fits are the ones to use.** A common E (~1.7 kPa) is the next test: one parameter fewer per patient, with the slope then fixed by ρ̄ g L / E.
+- **Common-E scan, first attempt (2026-11-16, `gravity_E_Pa` 1000 / 1700 / 3000, wall): not usable.** 27 of 42 fits stopped at the first solve (time limit 120 s): the fit started from rest with the whole gravity term, i.e. the lung's unbalanced weight on the wall from the first increment (more failures for lower E, larger slope: 13 / 14 at 1000, 10 / 14 at 1700, 4 / 14 at 3000). In several of the other 15 the result is just the starting q0 = 0.5 (karl20 E 3000: collapse 30 vs 58 %), because the best state is chosen by the mean distance while the optimiser lowers the rms (same as karl18 in section 4). Fixed in the code (continuation `gravity_prefit`, `best_by: "rms"`); scan to rerun.
 - The relative slope θ_ap / mean p/E (= ρ g L / p0) is not constant either (0.07–0.59).
 
 ## 6. Wall and tangential support
